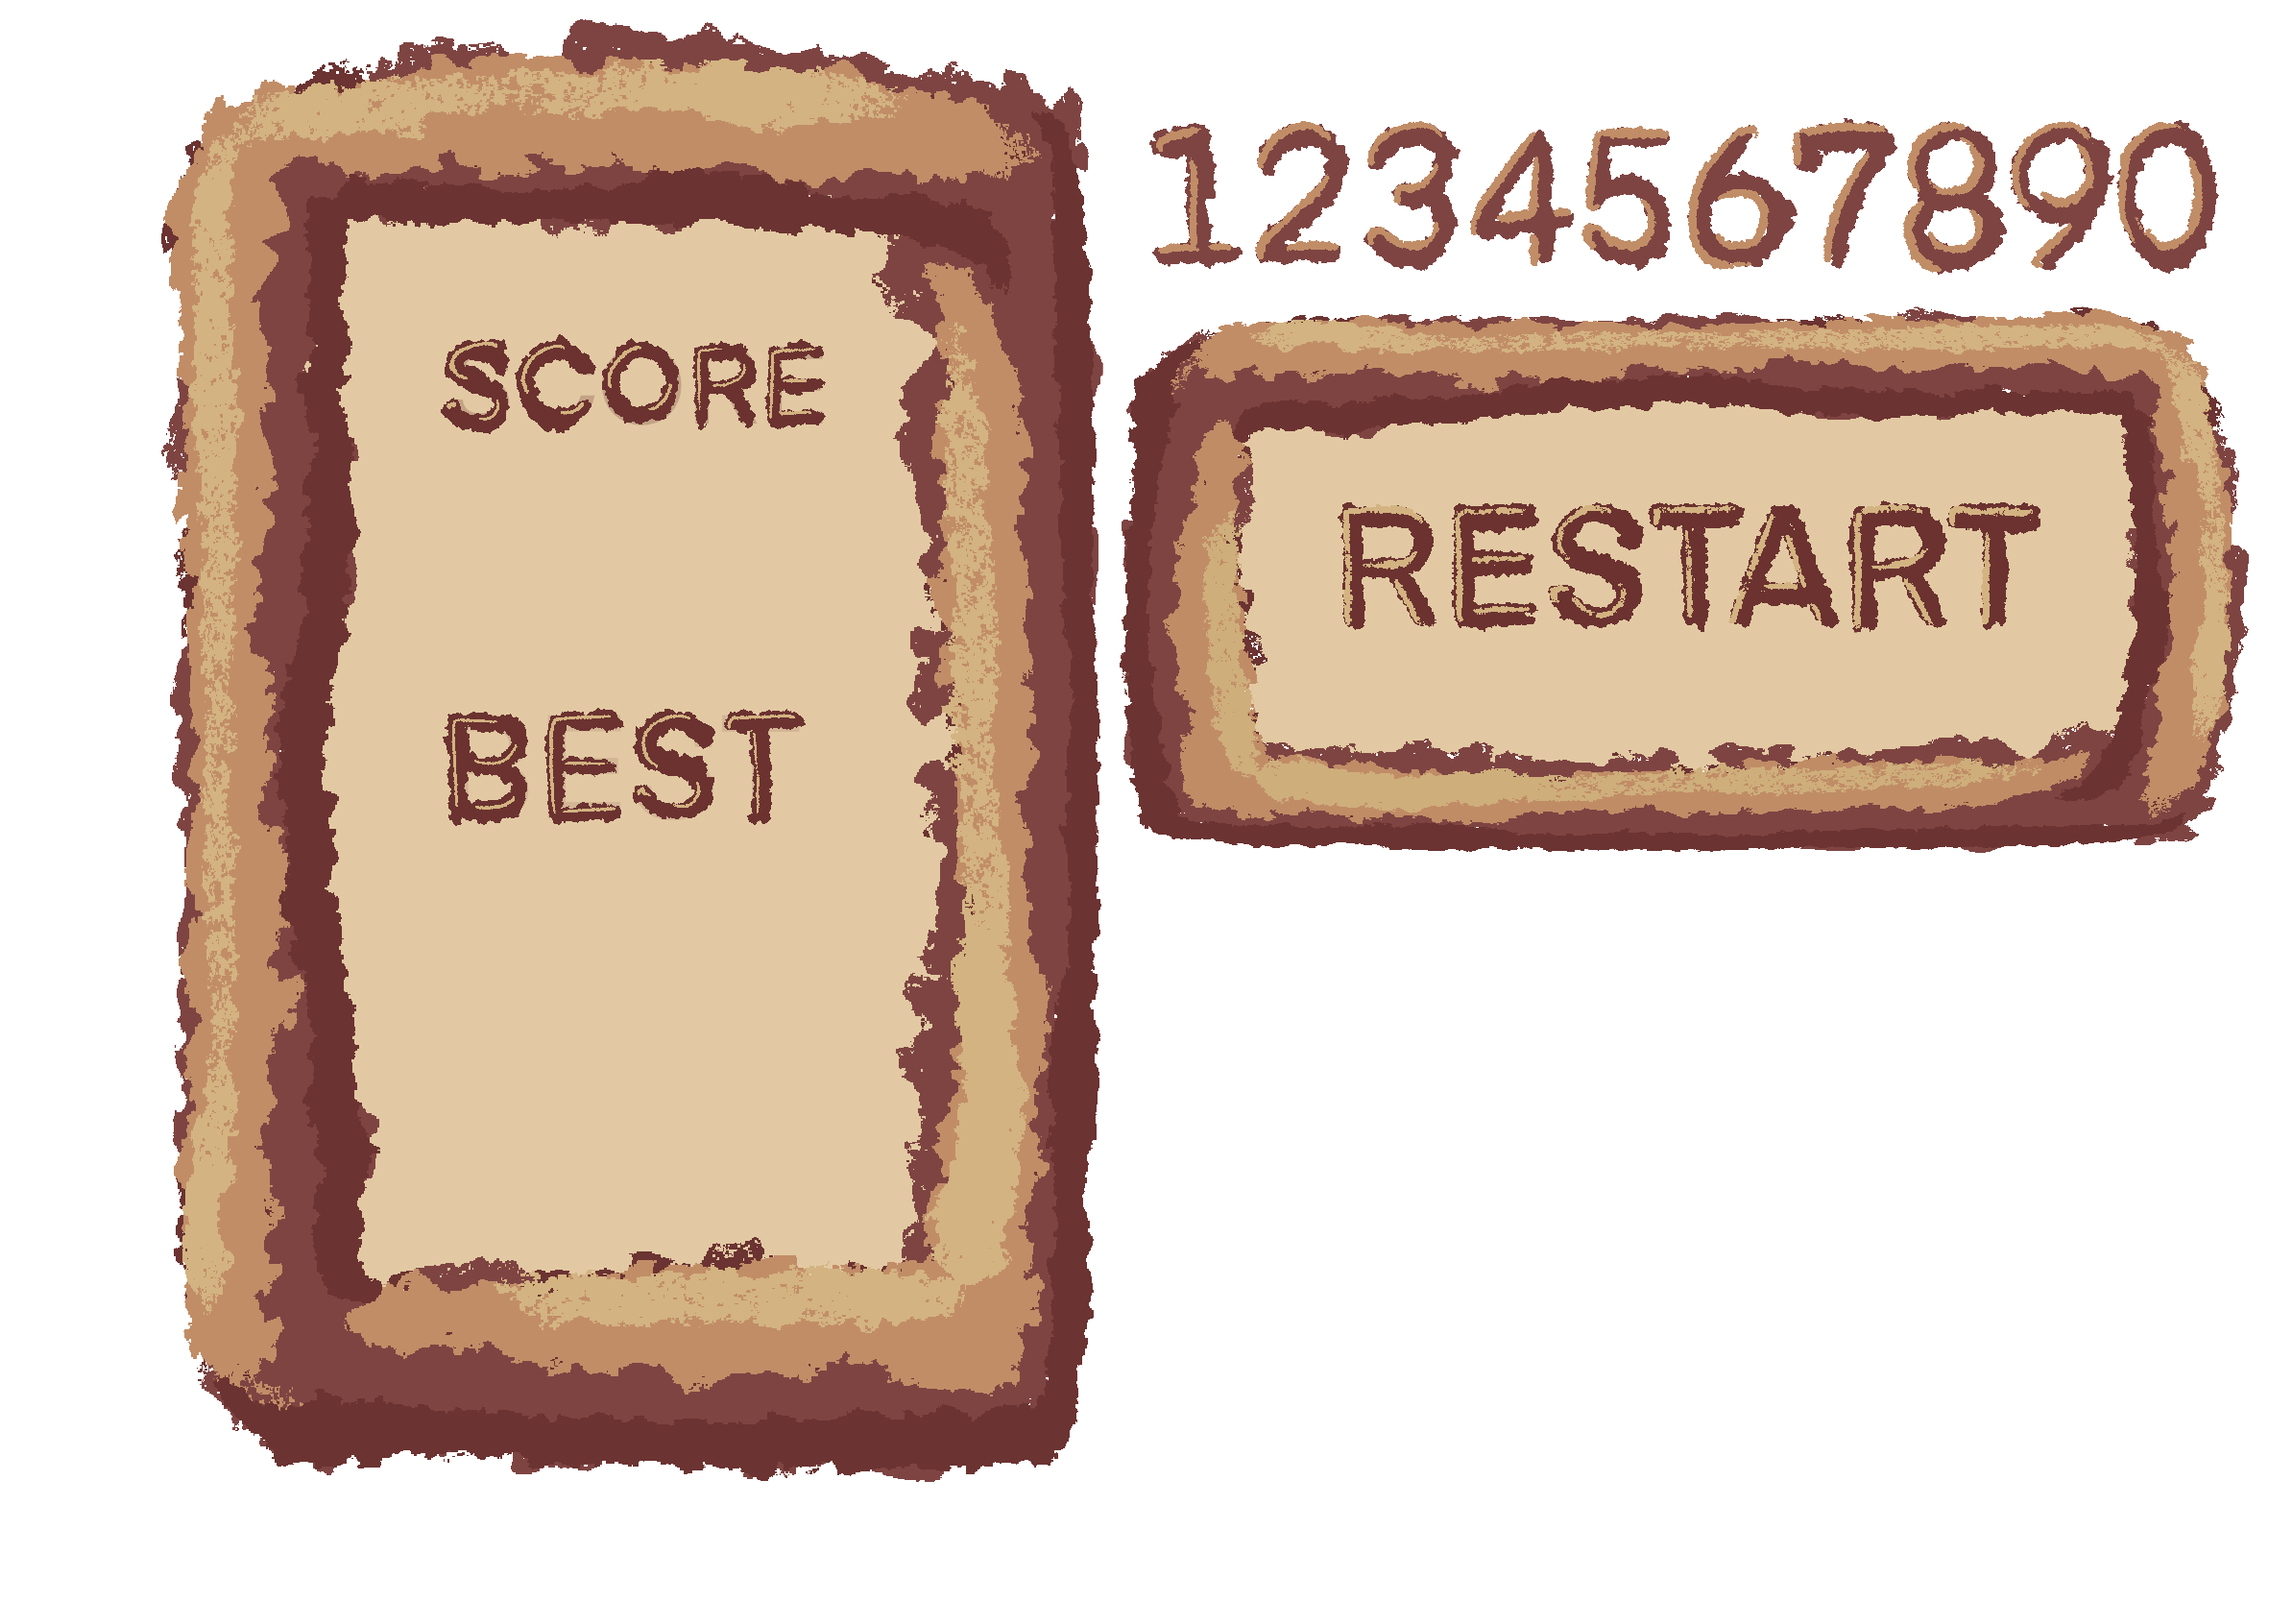
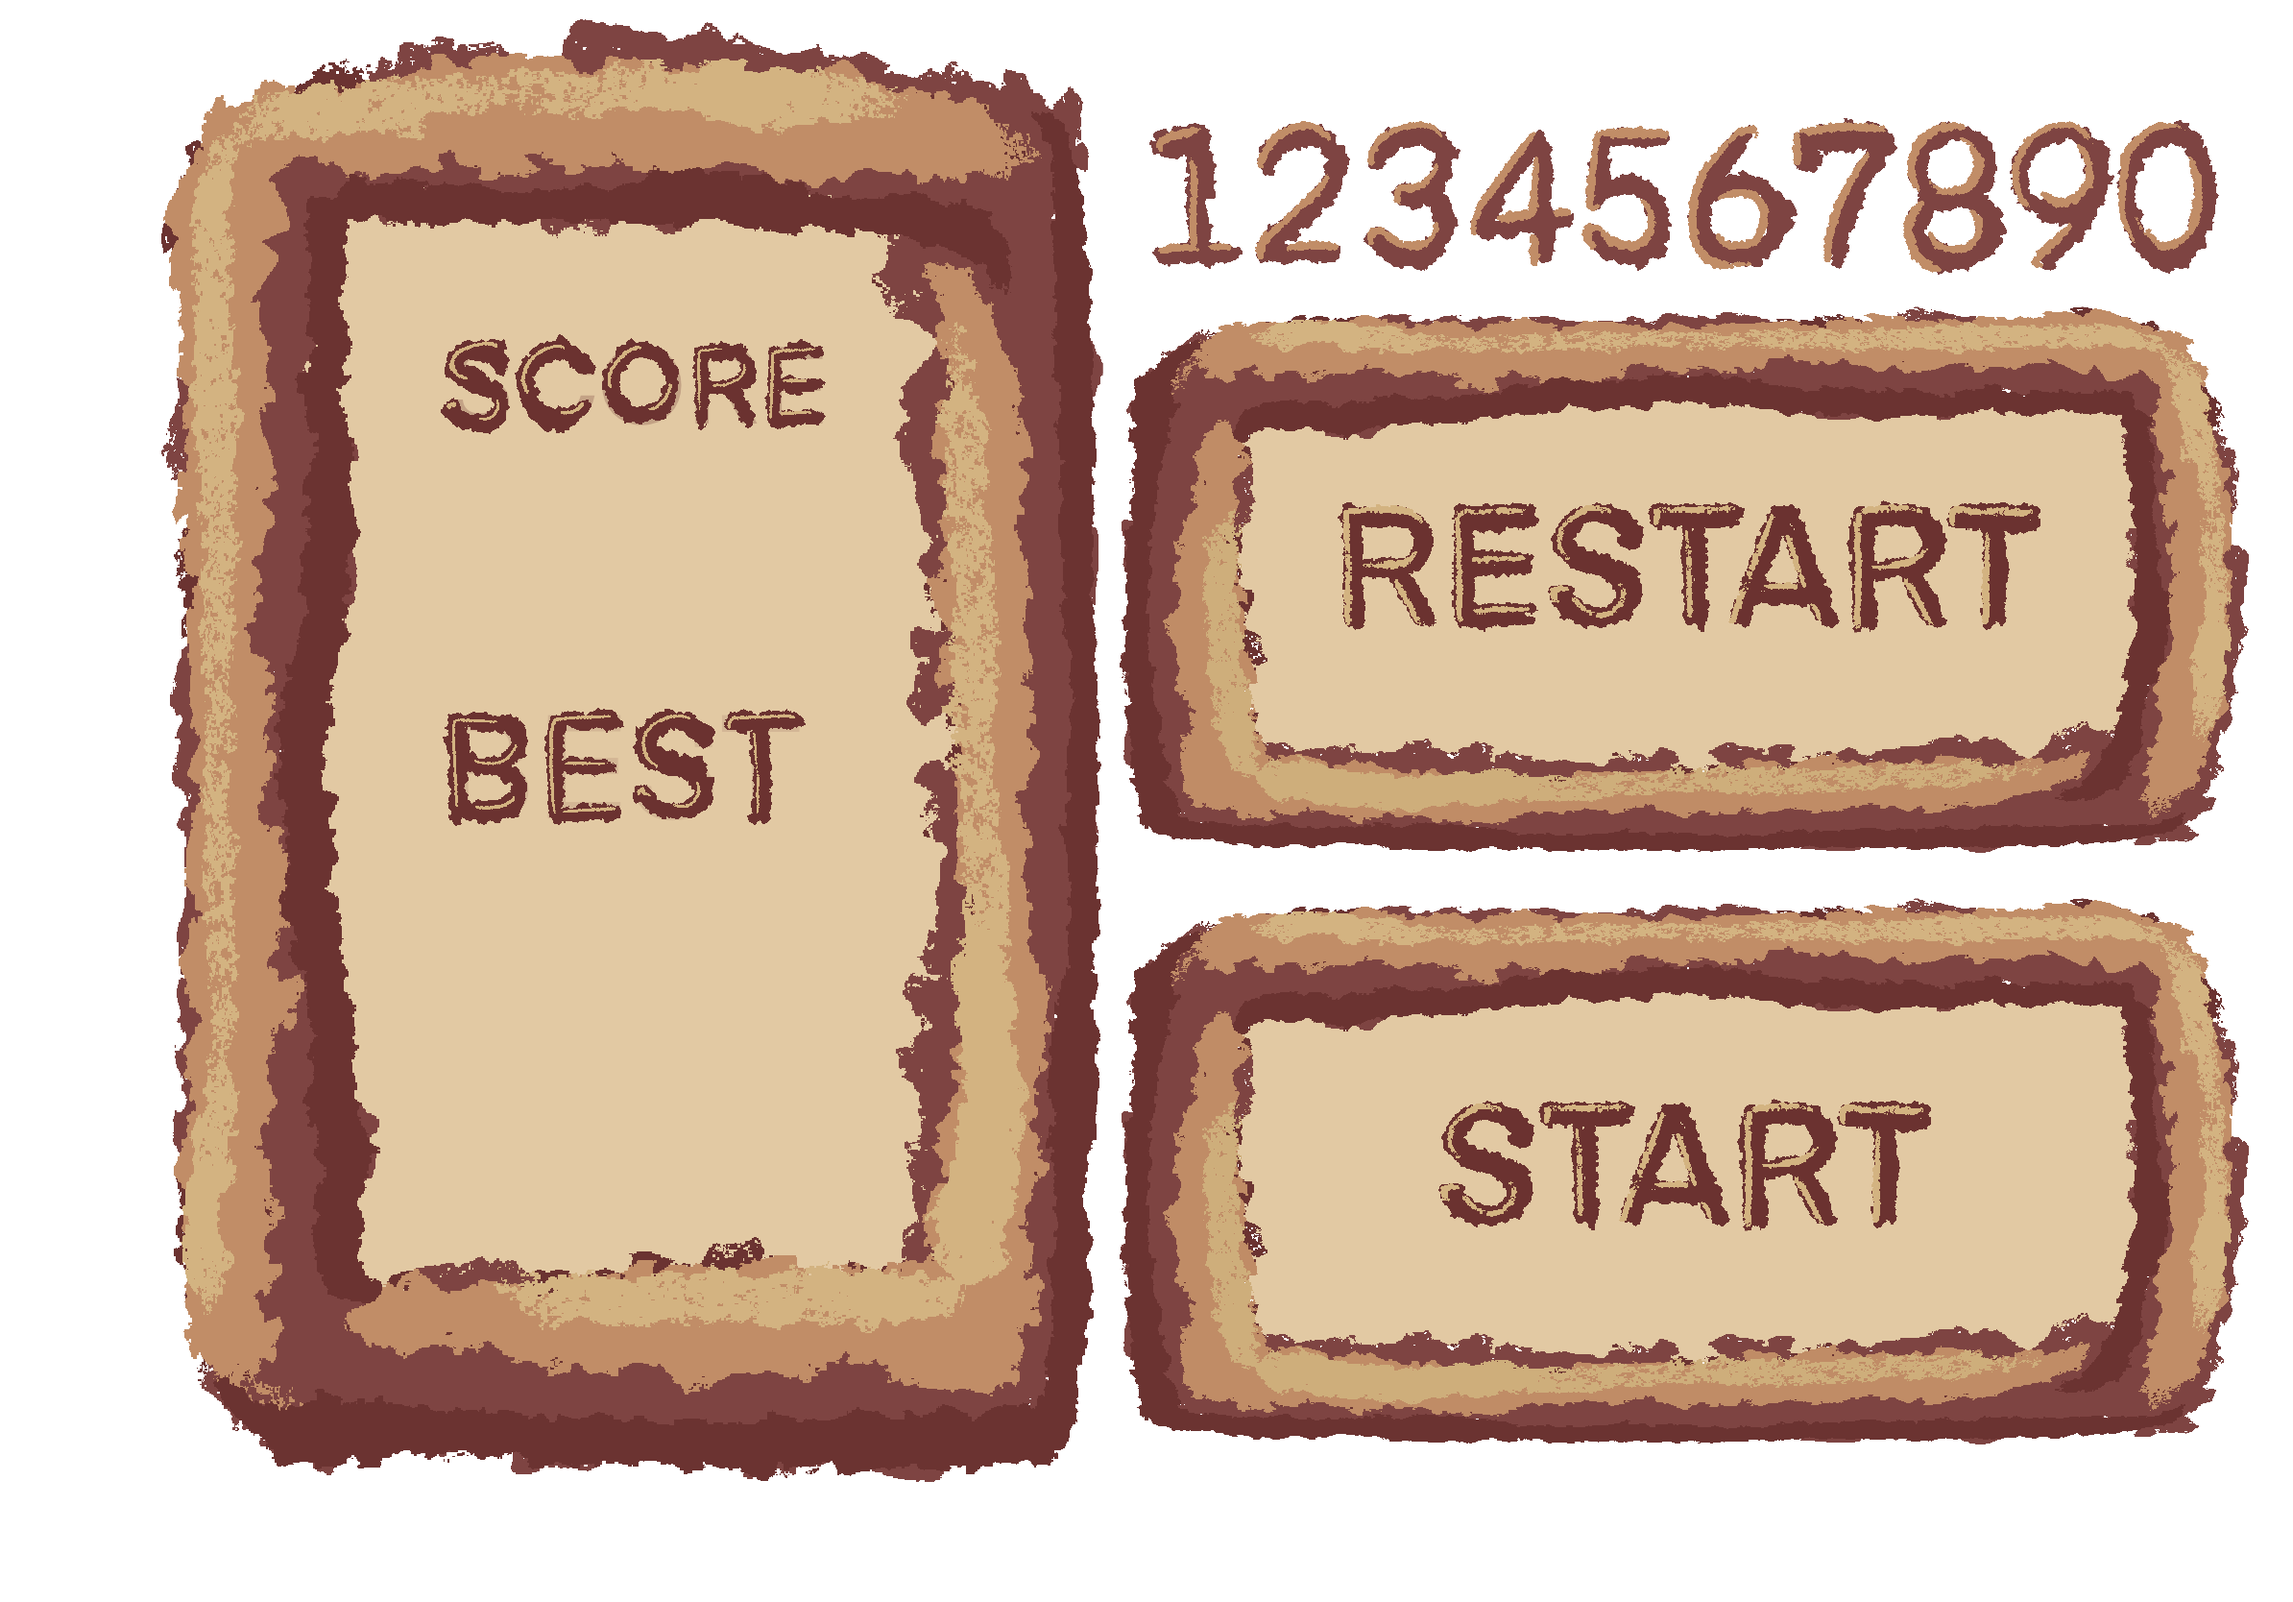
Add score display with custom numbers

Changed region(s): [[0.4648, 0.5612, 0.9916, 0.9041]]

diff --git a/Score.js b/Score.js
@@ -5,6 +5,8 @@ export default class Score {
         this.maxScore = storedScore;
         this.context = context;
         this.score = 0;
+        this.scoreArr = this.score.toString().split('');
+        this.maxScoreArr = this.maxScore.toString().split('');
     }
 
     scoreIncrease() {
@@ -12,6 +14,7 @@ export default class Score {
         if (this.score > this.maxScore) {
             localStorage.setItem('max_score', this.score);
         }
+        this.scoreArr = this.score.toString().split('');
     }
 
     resetScore() {
@@ -21,6 +24,7 @@ export default class Score {
     displayScore() {
         if (this.score > this.maxScore) {
             this.maxScore = this.score;
+            this.maxScoreArr = this.maxScore.toString().split('');
         }
 
         this.context.drawImage(
@@ -31,14 +35,62 @@ export default class Score {
             globalOptions.menuAssets.scorePanel.height,
             10,
             10,
-            globalOptions.canvasFreeSpaceHeight / 1.5, 
-            globalOptions.canvasFreeSpaceHeight);
+            globalOptions.menuAssets.scorePanel.dislayWidth, 
+            globalOptions.menuAssets.scorePanel.dislayHeight);
+
+        let currentScoreX = globalOptions.menuAssets.scoreNumbers.current.x;
+
+        for(let i = 0; i < this.scoreArr.length; i++){
+            let number = this.scoreArr[i];
+            this.context.drawImage(
+                this.img,
+                globalOptions.numbers[number].sx,
+                globalOptions.numbers[number].sy,
+                globalOptions.numbers[number].sWidth,
+                globalOptions.numbers[number].sheight,
+                currentScoreX,
+                globalOptions.menuAssets.scoreNumbers.current.y,
+                globalOptions.menuAssets.scoreNumbers.current.width,
+                globalOptions.menuAssets.scoreNumbers.current.height,);
+
+                currentScoreX += globalOptions.menuAssets.scoreNumbers.current.width;
+        }
+
+        let maxScoreX = globalOptions.menuAssets.scoreNumbers.max.x;
+
+        for(let i = 0; i < this.maxScoreArr.length; i++){
+            let number = this.maxScoreArr[i];
+            this.context.drawImage(
+                this.img,
+                globalOptions.numbers[number].sx,
+                globalOptions.numbers[number].sy,
+                globalOptions.numbers[number].sWidth,
+                globalOptions.numbers[number].sheight,
+                maxScoreX,
+                globalOptions.menuAssets.scoreNumbers.max.y,
+                globalOptions.menuAssets.scoreNumbers.max.width,
+                globalOptions.menuAssets.scoreNumbers.max.height,);
+
+                maxScoreX += globalOptions.menuAssets.scoreNumbers.max.width;
+        }
+
+        
+        // this.context.drawImage(
+        //     this.img,
+        //     globalOptions.menuAssets.scorePanel.x,
+        //     globalOptions.menuAssets.scorePanel.y,
+        //     globalOptions.menuAssets.scorePanel.width,
+        //     globalOptions.menuAssets.scorePanel.height,
+        //     10,
+        //     10,
+        //     globalOptions.menuAssets.scorePanel.dislayWidth, 
+        //     globalOptions.menuAssets.scorePanel.dislayHeight);
             
-            this.context.fillStyle = 'brown';
-            this.context.font = "1.8em bold";
-            this.context.textAlign = 'center';
-            this.context.fillText(this.score, 45, 53);
-            this.context.fillText(this.maxScore, 45, 83);
+        //     this.context.fillStyle = 'brown';
+        //     this.context.font = "2em bold";
+        //     this.context.textAlign = 'center';
+        //     this.context.fillText(this.score, globalOptions.menuAssets.scoreNumbers.current.x,  globalOptions.menuAssets.scoreNumbers.current.y);
+        //     this.context.fillText(this.maxScore,  globalOptions.menuAssets.scoreNumbers.max.x,  globalOptions.menuAssets.scoreNumbers.max.y);
     }
 
 

diff --git a/Options.js b/Options.js
@@ -23,7 +23,7 @@ export default class Options {
 
     this.canvas = {
         width: Math.max(canvasWidth, 320),
-        height: canvasHeight
+        height: Math.max(canvasHeight, 400)
     };
 
     this.canvasFreeSpaceHeight = this.canvas.height * 1/4;
@@ -33,8 +33,8 @@ export default class Options {
 
     this.fish = {
         src: './assets/whale.png',
-        x: 100,
-        y: 160,
+        x: this.canvas.width / 6,
+        y: this.canvas.height / 2,
         width: (this.canvasFreeSpaceHeight / 5) * 2,
         height: this.canvasFreeSpaceHeight / 5,
         sweemUpHeight: this.canvasFreeSpaceHeight / 2,
@@ -100,18 +100,105 @@ export default class Options {
             x: 160,
             y: 18,
             width: 995,
-            height: 1534
+            height: 1534,
+            dislayWidth: this.canvasFreeSpaceHeight / 1.5,
+            dislayHeight: this.canvasFreeSpaceHeight
+        },
+        scoreNumbers: {
+            current: {
+                x: (this.canvasFreeSpaceHeight / 1.5) / 2,
+                y: this.canvasFreeSpaceHeight / 2.5,
+                width: (this.canvasFreeSpaceHeight / 6) / 2,
+                height: this.canvasFreeSpaceHeight / 10,
+            },
+            max: {
+                x: (this.canvasFreeSpaceHeight / 1.5) / 2,
+                y: this.canvasFreeSpaceHeight / 1.5,
+                width: (this.canvasFreeSpaceHeight / 6) / 2,
+                height: this.canvasFreeSpaceHeight / 10,
+            }
+        },
+        startButton: {
+            x: 1166,
+            y: 936,
+            width: 1188,
+            height: 577,
+            dislayWidth: this.canvas.width / 4,
+            displayheight: this.canvasFreeSpaceHeight,
         },
         restartButton: {
-            x: 1160,
+            x: 1166,
             y: 316,
             width: 1188,
-            height: 577
+            height: 577,
+            dislayWidth: this.canvas.width / 4,
+            displayheight: this.canvasFreeSpaceHeight,
         }
     }
 
+    this.numbers = [
+        {
+            sx: 2203,
+            sy: 123,
+            sWidth: 108,
+            sheight: 163,
+        },
+        {
+            sx: 1196,
+            sy: 123,
+            sWidth: 97,
+            sheight: 163,
+        },
+        {
+            sx: 1306,
+            sy: 123,
+            sWidth: 100,
+            sheight: 163,
+        },
+        {
+            sx: 1420,
+            sy: 123,
+            sWidth: 101,
+            sheight: 163,
+        },
+        {
+            sx: 1530,
+            sy: 123,
+            sWidth: 109,
+            sheight: 163,
+        },
+        {
+            sx: 1646,
+            sy: 123,
+            sWidth: 95,
+            sheight: 163,
+        },
+        {
+            sx: 1756,
+            sy: 123,
+            sWidth: 104,
+            sheight: 163,
+        },
+        {
+            sx: 1865,
+            sy: 123,
+            sWidth: 110,
+            sheight: 163,
+        },
+        {
+            sx: 1981,
+            sy: 123,
+            sWidth: 109,
+            sheight: 163,
+        },
+        {
+            sx: 2092,
+            sy: 123,
+            sWidth: 110,
+            sheight: 163,
+        },0                                                                                                                                                                                                                                                                                                                                                                                                                                          
+    ]
 }
-
 }
 
 let globalOptions = new Options()

diff --git a/game.js b/game.js
@@ -56,7 +56,6 @@ export default class Game {
         this.checkCollision();
         if(!this.isLost && this.checkFishPassed()){
             this.score.scoreIncrease();
-            console.log(this.score.score)
         };
         this.score.displayScore();
 
@@ -72,10 +71,10 @@ export default class Game {
                 globalOptions.menuAssets.restartButton.y, 
                 globalOptions.menuAssets.restartButton.width, 
                 globalOptions.menuAssets.restartButton.height,
-                (this.canvas.width / 2) - 100, 
-                (this.canvas.height / 2) - 50,
-                200,
-                100);
+                (this.canvas.width / 2) - (globalOptions.menuAssets.restartButton.dislayWidth / 2), 
+                (this.canvas.height / 2) - (globalOptions.menuAssets.restartButton.displayheight / 2),
+                globalOptions.menuAssets.restartButton.dislayWidth,
+                globalOptions.menuAssets.restartButton.displayheight);
             this.canvas.addEventListener('mousedown',  this.resetGameListener)
         }
     }
@@ -241,16 +240,15 @@ export default class Game {
         startButtonImage.onload = () => {
             this.context.drawImage(
                 startButtonImage, 
-                globalOptions.menuAssets.restartButton.x,  
-                globalOptions.menuAssets.restartButton.y, 
-                globalOptions.menuAssets.restartButton.width, 
-                globalOptions.menuAssets.restartButton.height,
-                (this.canvas.width / 2) - 100, 
-                (this.canvas.height / 2) - 50,
-                200,
-                100)};
+                globalOptions.menuAssets.startButton.x,  
+                globalOptions.menuAssets.startButton.y, 
+                globalOptions.menuAssets.startButton.width, 
+                globalOptions.menuAssets.startButton.height,
+                (this.canvas.width / 2) - (globalOptions.menuAssets.startButton.dislayWidth / 2), 
+                (this.canvas.height / 2) - (globalOptions.menuAssets.startButton.displayheight / 2),
+                globalOptions.menuAssets.startButton.dislayWidth,
+                globalOptions.menuAssets.startButton.displayheight)};
     }
-
 
     clear() {
         this.context.clearRect(0, 0, this.canvas.width, this.canvas.height);

diff --git a/index.js b/index.js
@@ -12,7 +12,6 @@ const game = new Game(canvas);
 game.createLoadScreen();
 
 const startGame = () => {
-    console.log('startGame_from_index');
     canvas.removeEventListener('mousedown', startGame)
     game.gameStart();
 }

diff --git a/style.css b/style.css
@@ -7,7 +7,7 @@
     background-image: url('./assets/image.jpg');
     background-position: center;
     background-repeat: no-repeat;
-    font-size: 10px;
+    font-size: 5px;
 }
 
 .main__header {
